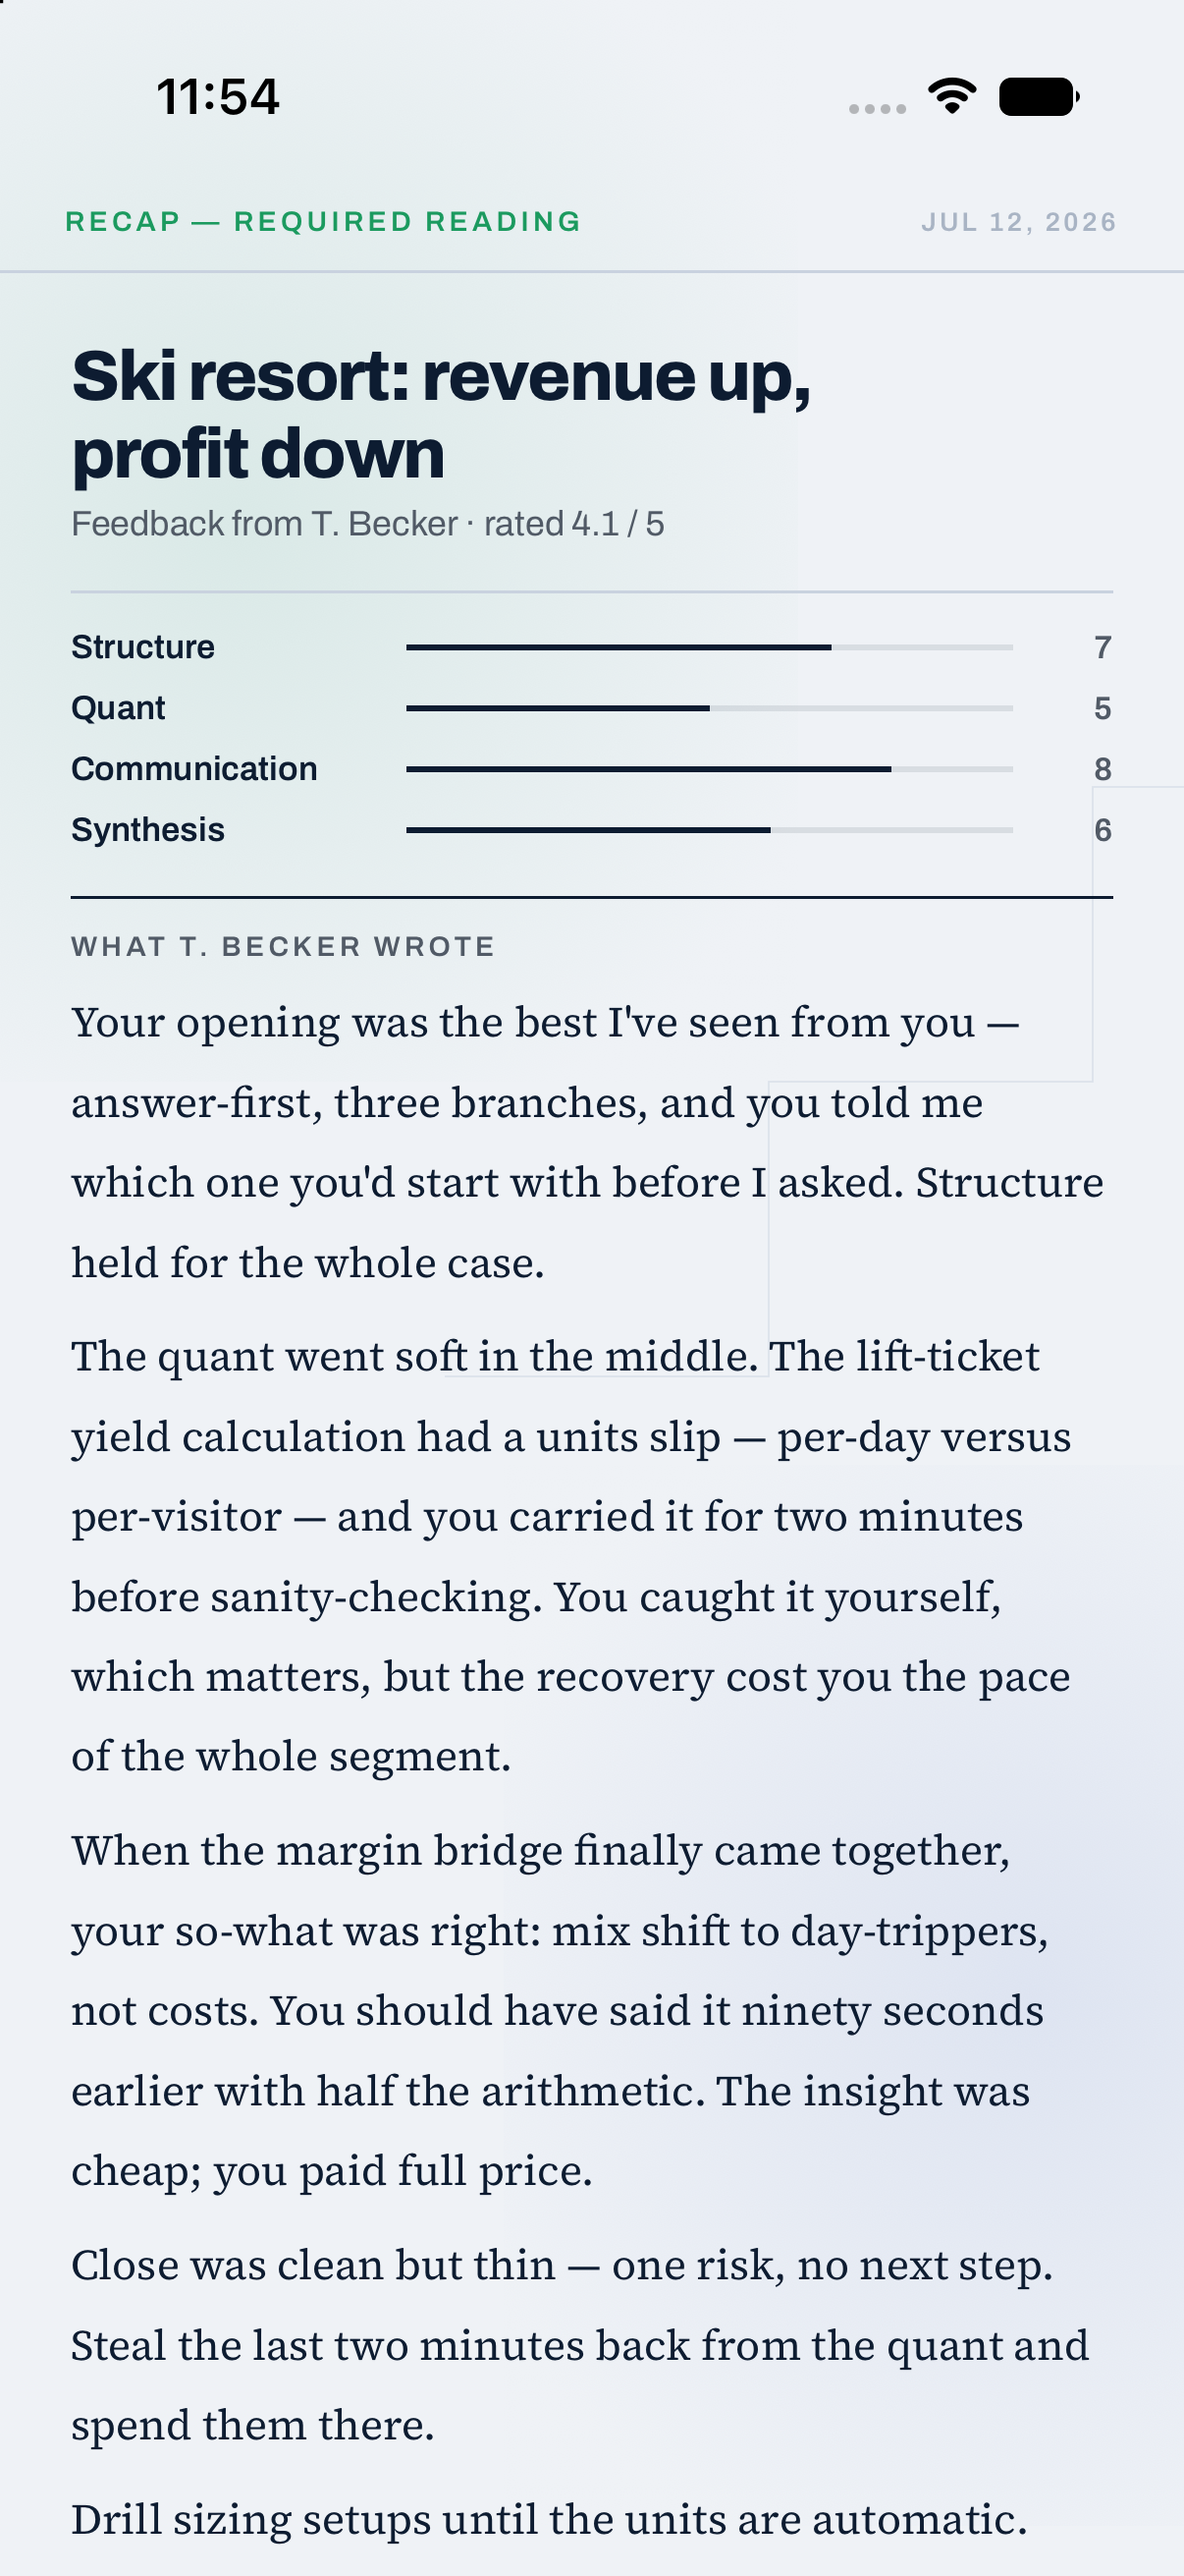
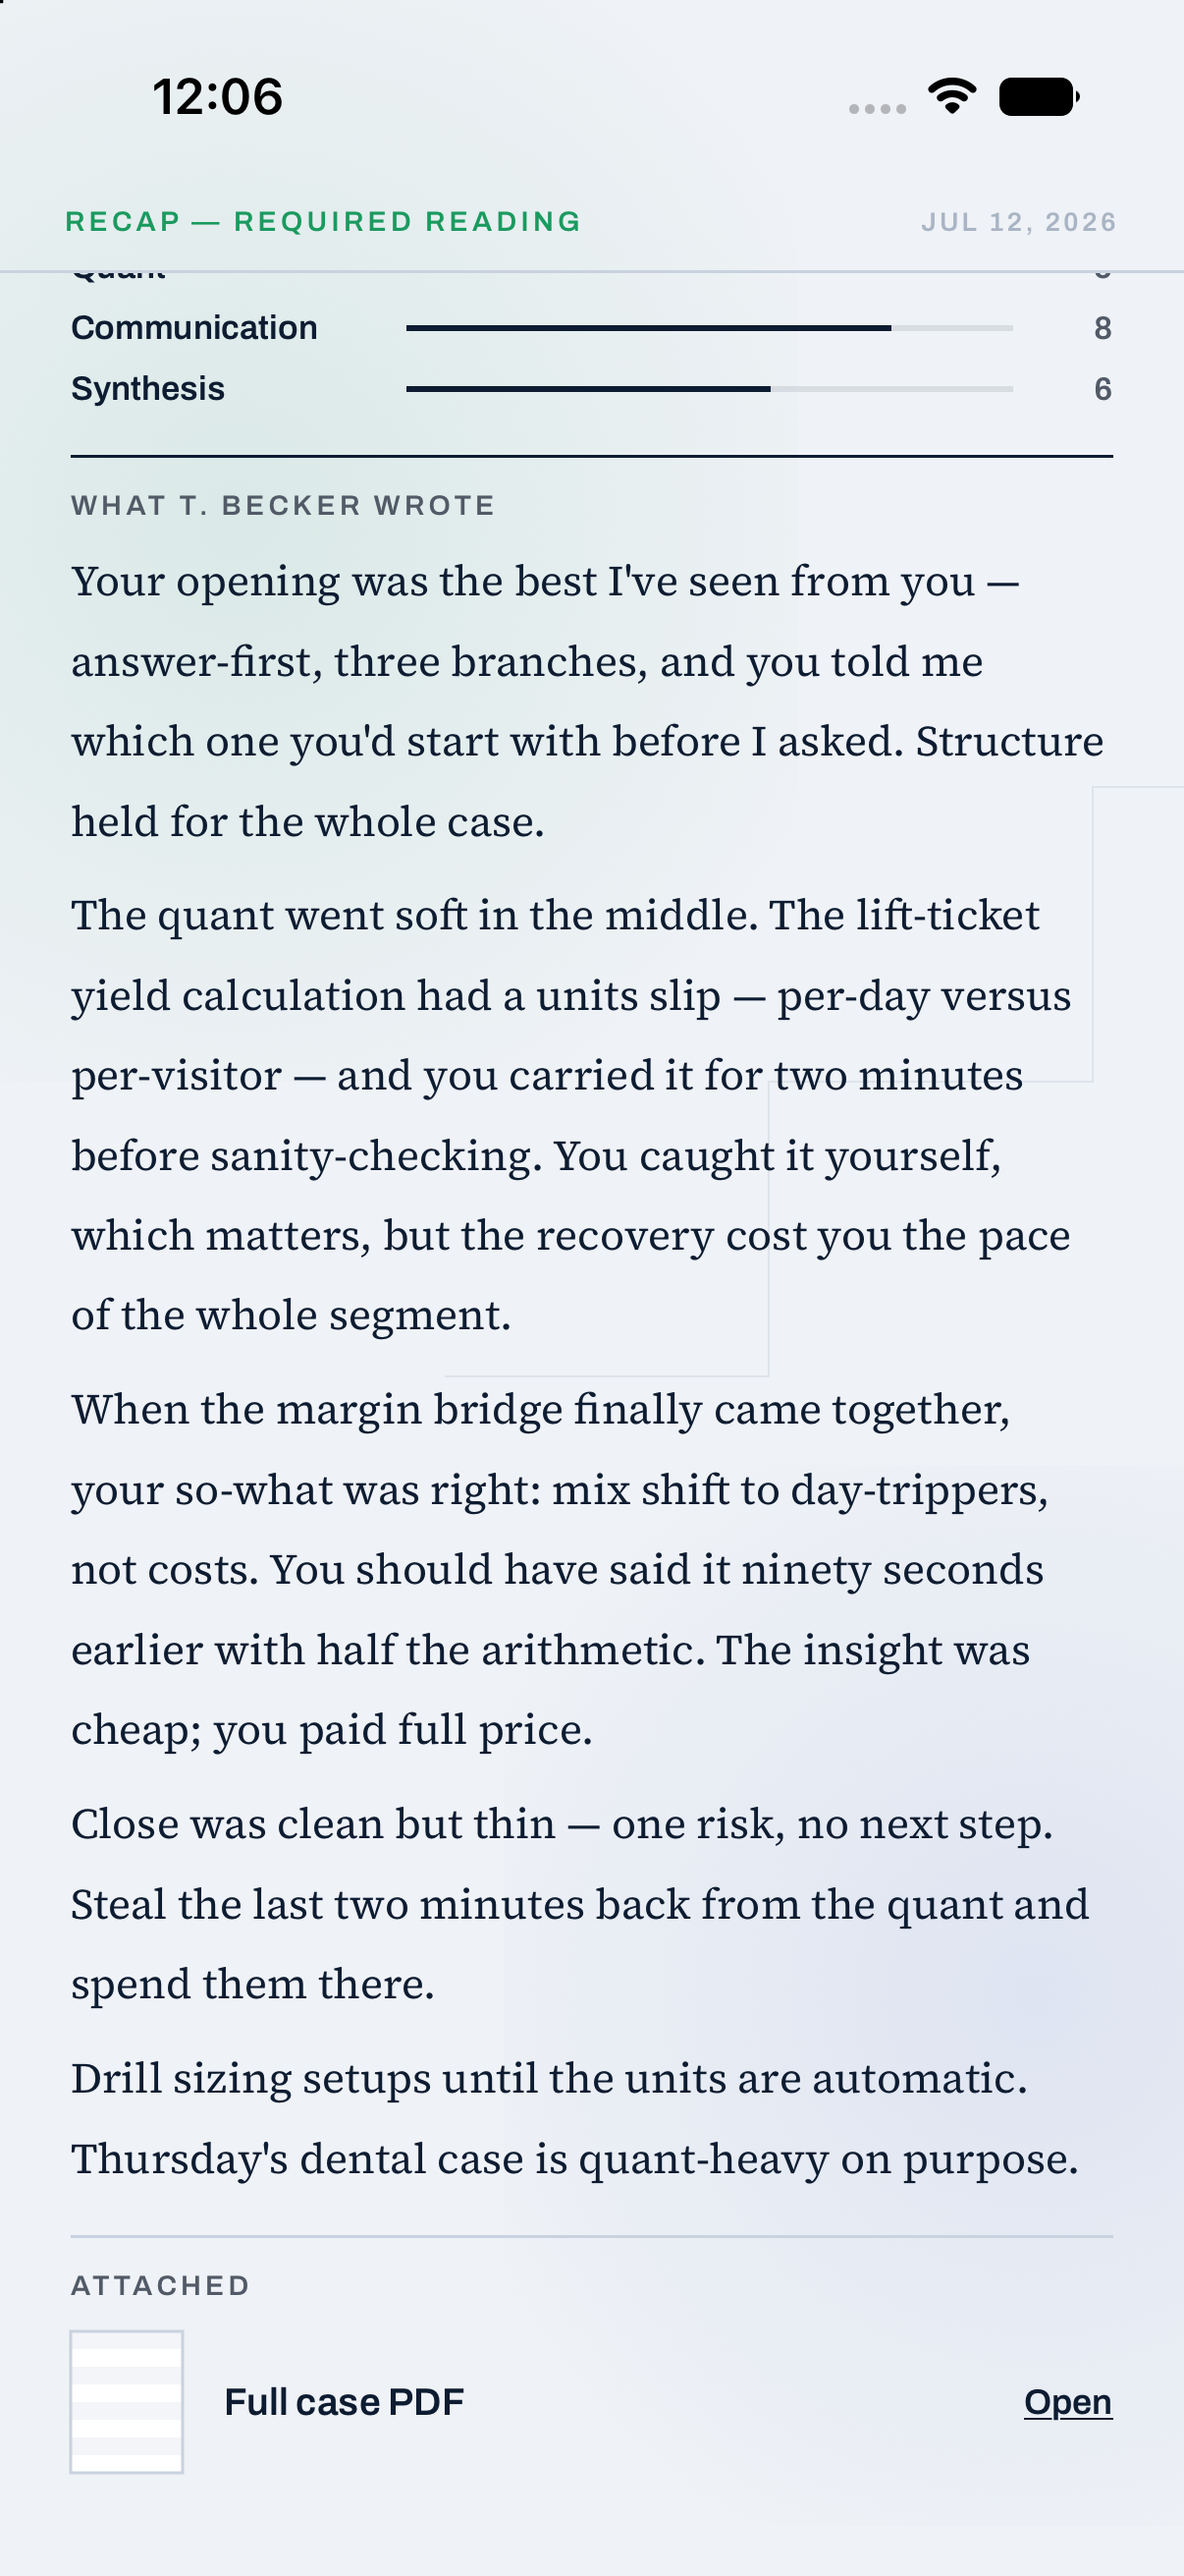
Fold recap report reviewer fixes: ATTACHED copy + grade fallback
Canvas-owned copy: drop the fabricated "The pack you cased from" subtitle
from the ATTACHED row — canvas 6b is a plain row (striped thumb + "Full
case PDF" + underline "Open"). Grade fallback: subline now sources
recapItem?.grade ?? report?.grade so a recaps() miss never drops the
"· rated X / 5" (report.grade is authoritative post-finalize; mirrors the
caseTitle report→recap fallback). Test updated to match.

Also a DEBUG-only, -startRecap-gated scroll-to-tail affordance (inert in
Release) so the shot captures the ATTACHED row, which sits below one screen.

Full iOS suite 569/0; recap-report.png re-captured with ATTACHED visible.

diff --git a/ios/CaseRoom/Views/RecapReportView.swift b/ios/CaseRoom/Views/RecapReportView.swift
@@ -24,6 +24,9 @@ struct RecapReportView: View {
 
     @State private var model: RecapViewModel
     @Environment(\.dsPalette) private var palette
+    #if DEBUG
+    @State private var scrollToTailForShot = false  // -startRecap shot only
+    #endif
 
     init(sessionId: Int, flowService: SessionFlowService = APIClient.shared) {
         self.sessionId = sessionId
@@ -53,7 +56,15 @@ struct RecapReportView: View {
         // threshold (scrollBottom − 16) off its own scroll listener and clears the
         // gate via flowService.recapClose. This placeholder documents the seam.
         .overlay(alignment: .bottom) { EmptyView() /* T7: close-out sheet */ }
-        .task { await model.onAppear() }
+        .task {
+            await model.onAppear()
+            #if DEBUG
+            if ProcessInfo.processInfo.arguments.contains("-startRecap") {
+                try? await Task.sleep(nanoseconds: 500_000_000)  // let the report lay out
+                scrollToTailForShot = true
+            }
+            #endif
+        }
     }
 
     // MARK: - Header (canvas 6b masthead bar)
@@ -81,25 +92,39 @@ struct RecapReportView: View {
     // MARK: - Scroll body
 
     private var scrollBody: some View {
-        ScrollView {
-            VStack(alignment: .leading, spacing: 0) {
-                if model.report != nil {
-                    report
-                } else if model.loaded {
-                    unavailable
-                } else {
-                    ProgressView().frame(maxWidth: .infinity).padding(.top, 80)
+        ScrollViewReader { proxy in
+            ScrollView {
+                VStack(alignment: .leading, spacing: 0) {
+                    if model.report != nil {
+                        report
+                    } else if model.loaded {
+                        unavailable
+                    } else {
+                        ProgressView().frame(maxWidth: .infinity).padding(.top, 80)
+                    }
+                    // Tail anchor (above the reserved bottom padding) so the
+                    // -startRecap shot can scroll the ATTACHED row into frame.
+                    Color.clear.frame(height: 1).id(Self.tailAnchor)
                 }
+                .padding(.horizontal, 24)
+                .padding(.top, 22)
+                // Generous bottom padding reserves room for T7's floating close-out
+                // sheet so the last content row is never hidden behind it (canvas 6b:
+                // the scroll pads 250px at the bottom for the sheet).
+                .padding(.bottom, 250)
+                .frame(maxWidth: .infinity, alignment: .leading)
             }
-            .padding(.horizontal, 24)
-            .padding(.top, 22)
-            // Generous bottom padding reserves room for T7's floating close-out
-            // sheet so the last content row is never hidden behind it (canvas 6b:
-            // the scroll pads 250px at the bottom for the sheet).
-            .padding(.bottom, 250)
-            .frame(maxWidth: .infinity, alignment: .leading)
+            #if DEBUG
+            // Screenshot-only: -startRecap scrolls to the tail so the ATTACHED row
+            // is captured (the report is taller than one screen). Inert otherwise.
+            .onChange(of: scrollToTailForShot) { _, on in
+                if on { proxy.scrollTo(Self.tailAnchor, anchor: .bottom) }
+            }
+            #endif
         }
     }
+
+    private static let tailAnchor = "recap-tail"
 
     // MARK: - Report content
 
@@ -179,14 +204,9 @@ struct RecapReportView: View {
                 .foregroundStyle(palette.muted)
             HStack(spacing: 14) {
                 RecapStripedThumb(size: CGSize(width: 38, height: 48))
-                VStack(alignment: .leading, spacing: 2) {
-                    Text("Full case PDF")
-                        .font(.archivo(13, weight: 600))
-                        .foregroundStyle(palette.ink)
-                    Text("The pack you cased from")
-                        .font(.archivo(11, weight: 400))
-                        .foregroundStyle(palette.muted)
-                }
+                Text("Full case PDF")
+                    .font(.archivo(13, weight: 600))
+                    .foregroundStyle(palette.ink)
                 Spacer()
                 Button {
                     // No recap PDF endpoint — "Open" dismisses the recap and pushes

diff --git a/ios/CaseRoom/State/RecapViewModel.swift b/ios/CaseRoom/State/RecapViewModel.swift
@@ -125,7 +125,10 @@ final class RecapViewModel {
     var items: [FeedbackItem] { report?.items ?? [] }
     var paragraphs: [String] { RecapPresentation.paragraphs(report?.notesMd ?? "") }
     var itemNotes: [(label: String, note: String)] { RecapPresentation.itemNotes(items) }
-    var subline: String { RecapPresentation.subline(name: interviewerName, grade: recapItem?.grade) }
+    // Grade: prefer the recap-list row, fall back to the report's own grade
+    // (authoritative + always present post-finalize) so a recaps() miss never
+    // drops the "· rated X / 5" — mirrors the caseTitle report→recap fallback.
+    var subline: String { RecapPresentation.subline(name: interviewerName, grade: recapItem?.grade ?? report?.grade) }
     var dateKicker: String? { RecapPresentation.dateKicker(report?.finalizedAt) }
     var caseId: Int? { report?.caseId ?? recapItem?.caseId }
 

diff --git a/ios/CaseRoomTests/RecapViewModelTests.swift b/ios/CaseRoomTests/RecapViewModelTests.swift
@@ -125,7 +125,9 @@ final class RecapViewModelTests: XCTestCase {
         await vm.loadReport()
 
         XCTAssertNil(vm.interviewerName)
-        XCTAssertEqual(vm.subline, "Feedback from Your interviewer")
+        // Name falls back, but the grade still comes from the report itself
+        // (recapItem?.grade ?? report?.grade), so the rating is never dropped.
+        XCTAssertEqual(vm.subline, "Feedback from Your interviewer · rated 4.1 / 5")
     }
 
     // MARK: - recapViewed on appear (candidate-only; swallow 409/403)
